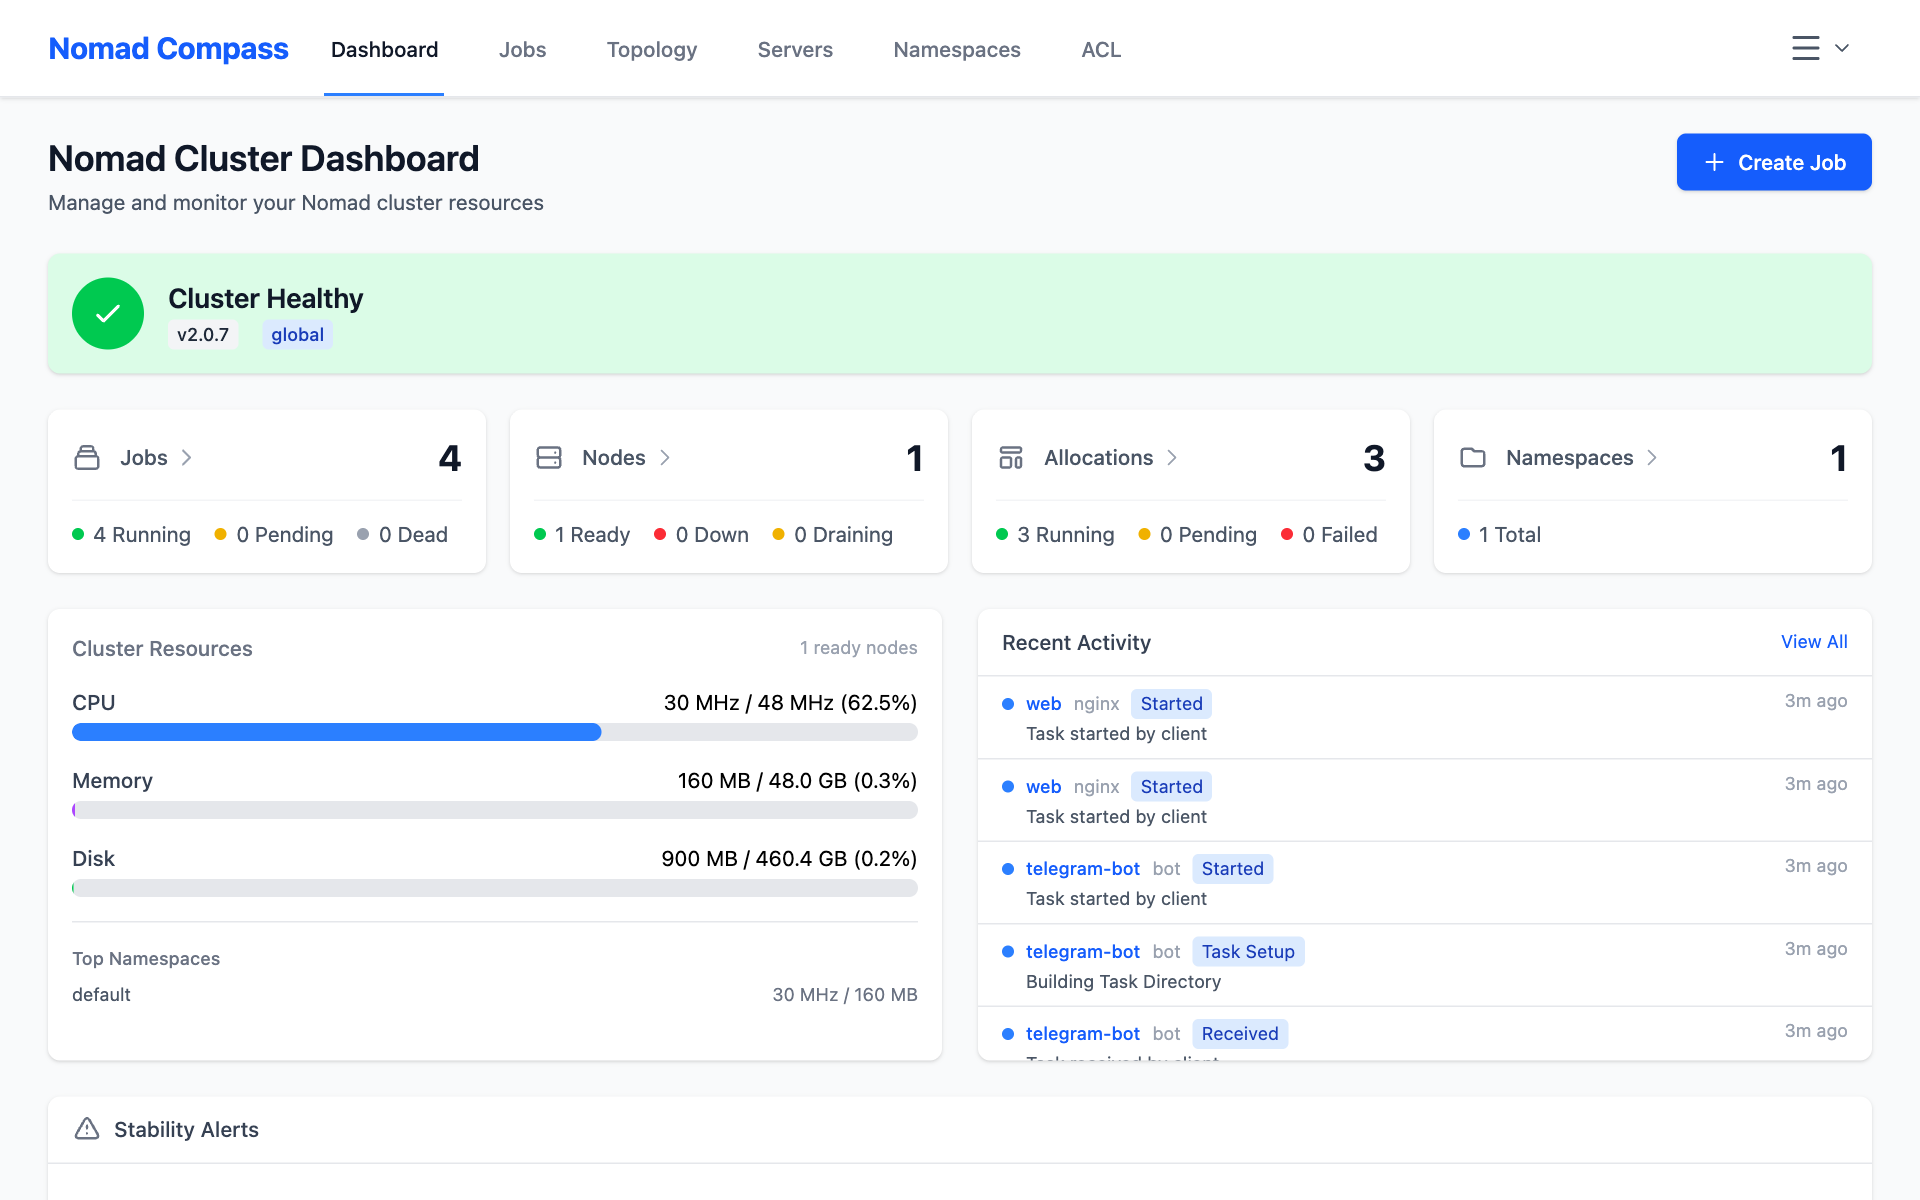
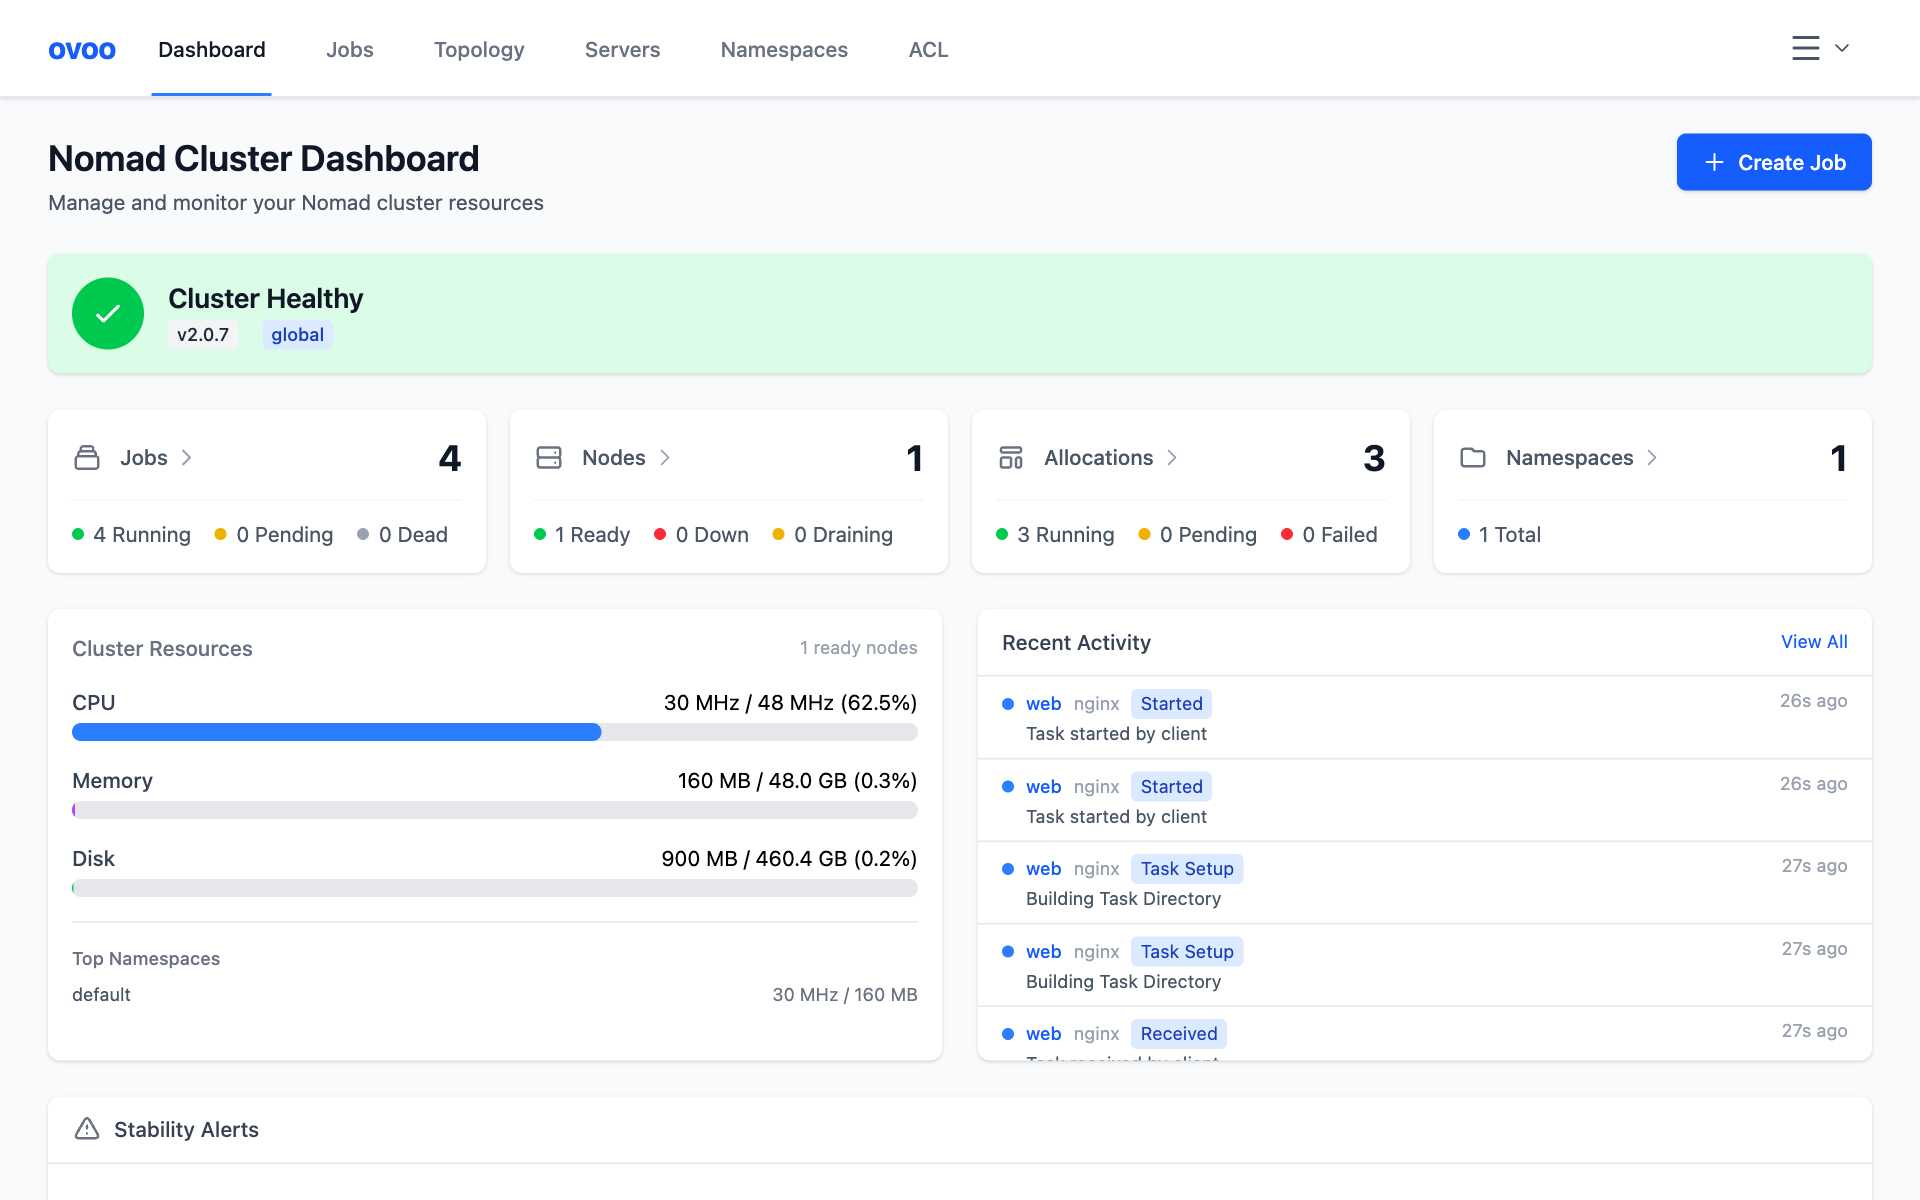
chore: rename Nomad Compass to ovoo

diff --git a/src/client/components/layout/DashboardNav.tsx b/src/client/components/layout/DashboardNav.tsx
@@ -67,7 +67,7 @@ const DashboardNav: React.FC = () => {
         <div className="flex justify-between h-16">
           <div className="flex">
             <div className="flex-shrink-0 flex items-center">
-              <span className="text-blue-600 dark:text-monokai-blue font-bold text-xl">Nomad Compass</span>
+              <span className="text-blue-600 dark:text-monokai-blue font-bold text-xl">ovoo</span>
             </div>
             <div className="hidden sm:ml-6 sm:flex sm:space-x-8">
               {visibleNavItems.map(item => (

diff --git a/src/client/components/auth/LoginForm.tsx b/src/client/components/auth/LoginForm.tsx
@@ -61,7 +61,7 @@ const LoginForm: React.FC = () => {
         </div>
         <div className="max-w-md w-full p-6 bg-white dark:bg-monokai-surface rounded-lg shadow-md">
           <div className="text-center mb-8">
-            <h1 className="text-2xl font-bold text-gray-900 dark:text-monokai-text">Nomad Compass</h1>
+            <h1 className="text-2xl font-bold text-gray-900 dark:text-monokai-text">ovoo</h1>
             <p className="text-gray-600 dark:text-monokai-muted">Sign in to manage your Nomad cluster</p>
           </div>
 

diff --git a/src/client/lib/utils/statusColors.ts b/src/client/lib/utils/statusColors.ts
@@ -1,4 +1,4 @@
-// Status color configurations for different contexts in Nomad Compass
+// Status color configurations for different contexts in ovoo
 
 export type AllocationStatus = 'running' | 'pending' | 'complete' | 'failed' | 'lost';
 export type JobStatus = 'running' | 'pending' | 'dead' | 'stopped' | 'degraded';

diff --git a/index.html b/index.html
@@ -3,7 +3,7 @@
   <head>
     <meta charset="UTF-8" />
     <meta name="viewport" content="width=device-width, initial-scale=1.0" />
-    <title>Nomad Compass</title>
+    <title>ovoo</title>
     <link rel="icon" type="image/svg+xml" href="/favicon.ico" />
   </head>
   <body>

diff --git a/docs/deployment.md b/docs/deployment.md
@@ -1,6 +1,6 @@
 # Deployment
 
-Nomad Compass supports two deployment targets from the same codebase:
+ovoo supports two deployment targets from the same codebase:
 
 | Target | Best for | Latency | Infrastructure |
 |--------|----------|---------|----------------|
@@ -37,7 +37,7 @@ bun run deploy:cf
 ```
 
 Your app will be available at
-`https://nomad-compass.<your-subdomain>.workers.dev`.
+`https://ovoo.<your-subdomain>.workers.dev`.
 
 A custom domain is an optional `wrangler.toml` addition:
 
@@ -64,17 +64,17 @@ Preview URLs are public; Cloudflare Access can require sign-in for them.
 For self-hosted, on-premise, or air-gapped environments.
 
 A release tag (`v*.*.*`) builds a multi-arch image (amd64, arm64) and pushes
-it to `ghcr.io/ingvarch/nomad-compass` as the version tag and as `latest`.
+it to `ghcr.io/ingvarch/ovoo` as the version tag and as `latest`.
 
 **Run the published image:**
 
 ```bash
 docker run -d \
-  --name nomad-compass \
+  --name ovoo \
   -p 3000:3000 \
   -e NOMAD_ADDR=http://your-nomad-server:4646 \
   -e TICKET_SECRET=your-generated-secret \
-  ghcr.io/ingvarch/nomad-compass:latest
+  ghcr.io/ingvarch/ovoo:latest
 ```
 
 **Build it yourself:**
@@ -82,15 +82,15 @@ docker run -d \
 ```bash
 bun run docker:build
 # or directly with Docker
-docker build -t nomad-compass .
+docker build -t ovoo .
 ```
 
 **Docker Compose:**
 
 ```yaml
 services:
-  nomad-compass:
-    image: ghcr.io/ingvarch/nomad-compass:latest
+  ovoo:
+    image: ghcr.io/ingvarch/ovoo:latest
     # or build from source: build: .
     ports:
       - "3000:3000"
@@ -102,21 +102,21 @@ services:
 
 ## Behind a reverse proxy
 
-Terminate TLS at the proxy. Nomad Compass reads `X-Forwarded-Proto` to mark
+Terminate TLS at the proxy. ovoo reads `X-Forwarded-Proto` to mark
 its cookies `Secure` and to send HSTS, and `X-Real-IP` or `X-Forwarded-For`
 for rate limits. Traefik sets these headers by default.
 
 ```yaml
 services:
-  nomad-compass:
-    image: ghcr.io/ingvarch/nomad-compass:latest
+  ovoo:
+    image: ghcr.io/ingvarch/ovoo:latest
     environment:
       - NOMAD_ADDR=http://nomad:4646
       - TICKET_SECRET=your-generated-secret
     labels:
       - "traefik.enable=true"
-      - "traefik.http.routers.nomad-compass.rule=Host(`nomad.example.com`)"
-      - "traefik.http.services.nomad-compass.loadbalancer.server.port=3000"
+      - "traefik.http.routers.ovoo.rule=Host(`nomad.example.com`)"
+      - "traefik.http.services.ovoo.loadbalancer.server.port=3000"
 ```
 
 The guides in [traefik/](traefik/) set up Traefik as ingress for Nomad jobs,

diff --git a/README.md b/README.md
@@ -1,13 +1,14 @@
 <div align="center">
 
-# Nomad Compass
+# ovoo
 
 **A web UI for HashiCorp Nomad that runs on Cloudflare Workers or in Docker.**
+Formerly Nomad Compass.
 
-[![release](https://img.shields.io/github/v/release/ingvarch/nomad-compass)](https://github.com/ingvarch/nomad-compass/releases/latest)
-[![license](https://img.shields.io/github/license/ingvarch/nomad-compass)](LICENSE)
+[![release](https://img.shields.io/github/v/release/ingvarch/ovoo)](https://github.com/ingvarch/ovoo/releases/latest)
+[![license](https://img.shields.io/github/license/ingvarch/ovoo)](LICENSE)
 
-![Nomad Compass dashboard](docs/images/dashboard.png)
+![ovoo dashboard](docs/images/dashboard.png)
 
 </div>
 
@@ -39,7 +40,7 @@ With Docker, point the published image at your Nomad API:
 docker run -p 3000:3000 \
   -e NOMAD_ADDR=http://your-nomad:4646 \
   -e TICKET_SECRET=$(openssl rand -hex 32) \
-  ghcr.io/ingvarch/nomad-compass:latest
+  ghcr.io/ingvarch/ovoo:latest
 ```
 
 Open [http://localhost:3000](http://localhost:3000) and paste your ACL token.
@@ -47,8 +48,8 @@ Open [http://localhost:3000](http://localhost:3000) and paste your ACL token.
 From source, you need [Bun](https://bun.sh/) 1.2+:
 
 ```sh
-git clone https://github.com/ingvarch/nomad-compass.git
-cd nomad-compass
+git clone https://github.com/ingvarch/ovoo.git
+cd ovoo
 bun install
 cp .dev.vars.example .dev.vars
 ```
@@ -73,10 +74,21 @@ output of `openssl rand -hex 32`. Then run `bun run dev`, open
 
 ## Contributing
 
-How to build Nomad Compass, run the checks and send a change is in
+How to build ovoo, run the checks and send a change is in
 [CONTRIBUTING.md](CONTRIBUTING.md). Security problems are reported privately,
 see [SECURITY.md](SECURITY.md).
 
 ## License
 
 MIT, see [LICENSE](LICENSE).
+
+Nomad is a trademark of HashiCorp. ovoo is an independent project and is not
+affiliated with or endorsed by HashiCorp.
+
+## About the name
+
+An ovoo is a Mongolian cairn: a heap of stones on a hilltop or a mountain
+pass. On the open steppe you see one from far away, and it tells you where
+you are and which way the road goes.
+
+A cluster is that steppe. This is the landmark you check first.

diff --git a/docs/traefik/00-basic-setup.md b/docs/traefik/00-basic-setup.md
@@ -116,7 +116,7 @@ Create `/etc/traefik/dynamic.yml`:
 
 http:
   routers:
-    # Nomad API access (for Nomad Compass)
+    # Nomad API access (for ovoo)
     nomad-api:
       rule: "Host(`nomad.example.com`)"  # Change this!
       service: nomad-api
@@ -272,17 +272,17 @@ This allows:
 - Automatic certificate issuance for any domain
 - Wildcard certificate support (`*.example.com`)
 
-## Using Ingress in Nomad Compass
+## Using Ingress in ovoo
 
-Once Traefik is running, you can expose your Nomad jobs through it using the Service Discovery & Ingress feature in Nomad Compass:
+Once Traefik is running, you can expose your Nomad jobs through it using the Service Discovery & Ingress feature in ovoo:
 
-1. Create or edit a job in Nomad Compass
+1. Create or edit a job in ovoo
 2. In the task group, enable "Service Discovery & Ingress"
 3. Enter your domain (e.g., `myapp.example.com`)
 4. Enable HTTPS if using Let's Encrypt or Cloudflare Origin Certificate
 5. Deploy the job
 
-Nomad Compass will generate the appropriate Traefik tags:
+ovoo will generate the appropriate Traefik tags:
 
 ```
 traefik.enable=true

diff --git a/docs/traefik/README.md b/docs/traefik/README.md
@@ -1,6 +1,6 @@
 # Traefik Documentation
 
-Guides for setting up Traefik reverse proxy with Nomad and Nomad Compass.
+Guides for setting up Traefik reverse proxy with Nomad and ovoo.
 
 ## Guides
 
@@ -13,4 +13,4 @@ Guides for setting up Traefik reverse proxy with Nomad and Nomad Compass.
 
 1. Follow [00-basic-setup.md](./00-basic-setup.md) to install Traefik
 2. If using Cloudflare, follow [01-cloudflare-dns-challenge.md](./01-cloudflare-dns-challenge.md) for DNS Challenge setup
-3. Create jobs in Nomad Compass with "Service Discovery & Ingress" enabled
+3. Create jobs in ovoo with "Service Discovery & Ingress" enabled

diff --git a/SECURITY.md b/SECURITY.md
@@ -8,7 +8,7 @@ it before you report.
 ## Reporting a vulnerability
 
 Do not open a public issue. Report it privately on the
-[Security tab](https://github.com/ingvarch/nomad-compass/security/advisories/new):
+[Security tab](https://github.com/ingvarch/ovoo/security/advisories/new):
 only the maintainer sees the report. Say what an attacker can do and how to
 reproduce it.
 

diff --git a/docs/traefik/01-cloudflare-dns-challenge.md b/docs/traefik/01-cloudflare-dns-challenge.md
@@ -172,7 +172,7 @@ INF Testing certificate renew...
 
 ## Step 6: Test Certificate Issuance
 
-Deploy a test service in Nomad with Traefik tags (via Nomad Compass):
+Deploy a test service in Nomad with Traefik tags (via ovoo):
 
 1. Create a new Job (e.g., nginx)
 2. Enable **Network** with port `http` → `80`

diff --git a/.github/pull_request_template.md b/.github/pull_request_template.md
@@ -1,6 +1,6 @@
 ## What changes
 
-<!-- What the change does for someone using Nomad Compass, and why. Link the issue: Closes #123 -->
+<!-- What the change does for someone using ovoo, and why. Link the issue: Closes #123 -->
 
 ## Checklist
 

diff --git a/CONTRIBUTING.md b/CONTRIBUTING.md
@@ -1,4 +1,4 @@
-# Contributing to Nomad Compass
+# Contributing to ovoo
 
 Bug reports, ideas and pull requests are welcome. A security problem is
 reported privately, not in an issue: see [SECURITY.md](SECURITY.md).
